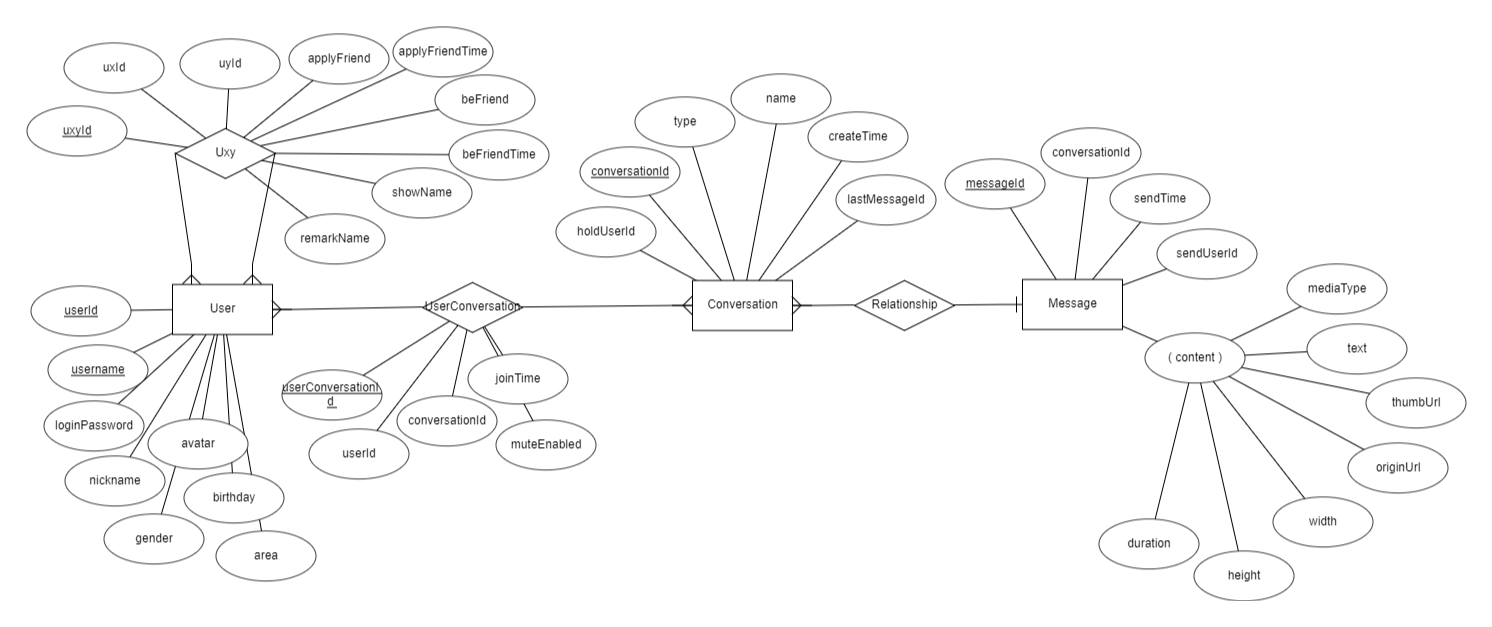
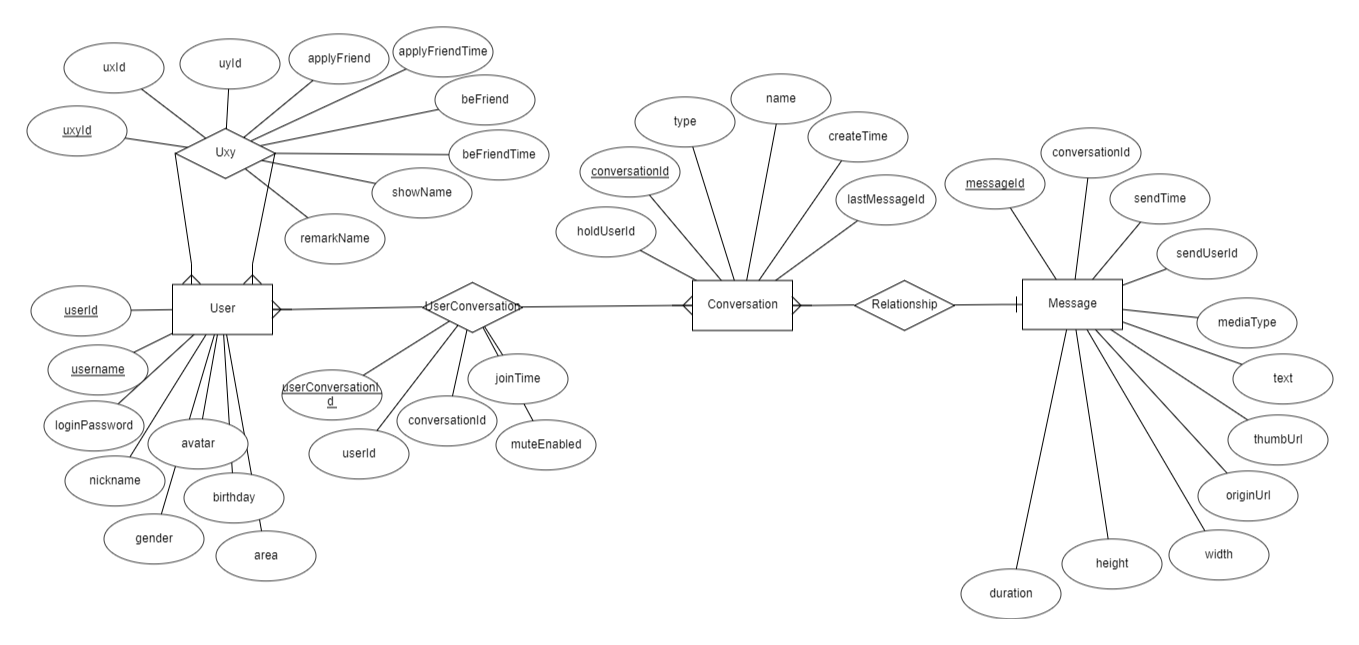
fix

Changed region(s): [[0.0, 0.0303, 0.989, 0.9697], [0.5563, 0.0909, 0.5872, 0.1212]]

diff --git a/DBSchema.md b/DBSchema.md
@@ -5,7 +5,13 @@
 | conversationId  | String  | 非空，Hash索引  | 对话Id  |
 | sendTime  | Long  | 非空，Sort索引  | 发送时间  |
 | sendUserId  | String  | 非空  | 发送者用户Id  |
-| content  | Media  | 非空  | 内容  |
+| mediaType  | Integer  | 非空  | 媒体类型（1文本，2图片，3音频，4视频）  |
+| text  | String  |   | 文本  |
+| thumbUrl  | String  |   | 缩略图  |
+| originUrl  | String  |   | 源文件  |
+| width  | Integer  |   | 宽度  |
+| height  | Integer  |   | 高度  |
+| duration  | Long  |   | 时长（毫秒）  |
 
 # Conversation
 | 字段  | 类型  | 约束  |  说明 |
